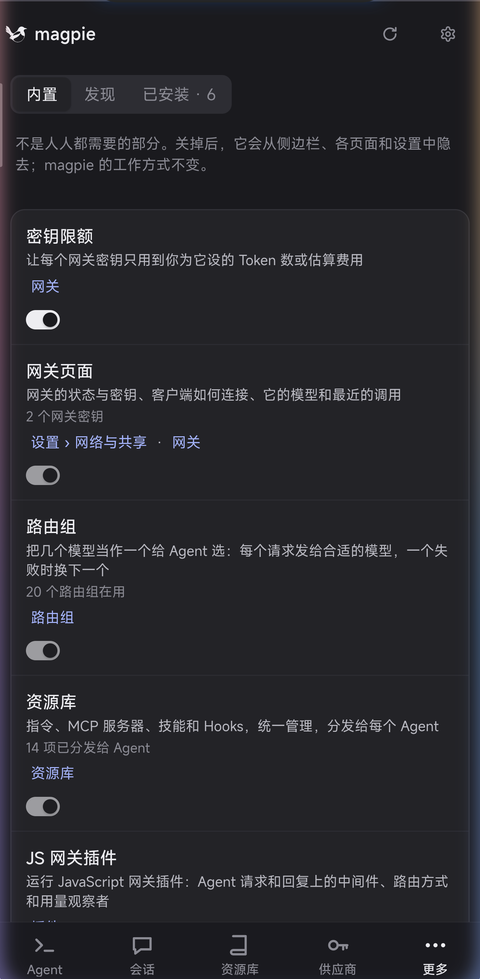
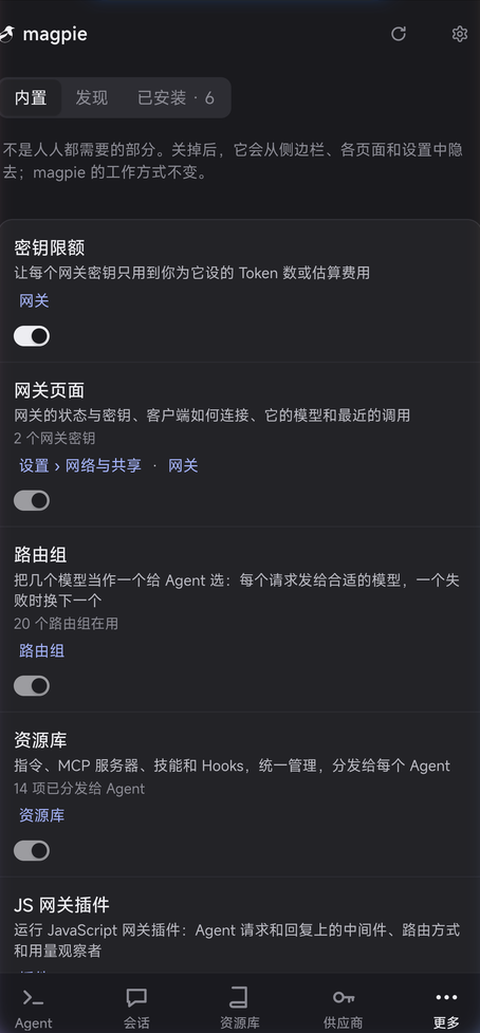
docs: 面板对比改为图在表上、说明不再重复
- 两张表信息重复（图片下面的说明和「能看到什么」那行是同一件事），现在只剩
  一张表；两张截图放到表上方居中并排，配一行图注说明哪张是哪张
- 图放进表格单元格会被压到 170px 左右、两列宽度不等、高度也对不齐；独立成
  段后两张都稳定在 240px，且同一行
- panel-magpie.png 重新裁过：左右各去掉约 13px 的紫/蓝渐变带（截图时叠在
  屏幕边缘的东西），顶部去掉 2px 灰边，再归一到 480 宽

diff --git a/README.md b/README.md
@@ -219,19 +219,16 @@ su -c magpie update         # 下载、校验、重启进新版本
 
 模块里有两个完全不同的页面，地址和用途都不一样：
 
+<p align="center"><img src="docs/panel-magpie.png" width="240" alt="magpie 自带的面板"> <img src="docs/panel.png" width="240" alt="模块自带的 webroot 面板"></p>
+
+（左：magpie 自带的面板，停在「插件 › 内置」页。右：模块自带的 webroot 面板，里面的 API Key 与访问密码默认折叠为「点击「显示」查看」，截图未展开。）
+
 | | magpie 自带的面板 | 模块自带的 webroot 面板 |
 | --- | --- | --- |
 | 地址 | `http://<host>:3430/?k=<data/web.key>` | 由宿主提供，见右栏 |
 | 谁提供 | magpie 自己（`serve --web=…`） | `webroot/index.html`，需要 **KernelSU 的 WebUI** 或 Magisk 的 **WebUI-X** 模块来托管 |
 | 能看到什么 | magpie 的完整应用界面（Agents、会话、资源库、供应商、网关、插件、用量…） | 服务状态与 PID、网关地址与 API Key、面板地址与访问密码、日志尾 |
 | 纯 Magisk 下 | ✅ 可用，地址由 `run/web.url` 给出 | ❌ 没有宿主就打不开；此时 `webroot/status.json` 仍然会写，脚本可以直接读 |
-
-| magpie 自带的面板 | 模块自带的 webroot 面板 |
-| :---: | :---: |
-| <img src="docs/panel-magpie.png" width="240" alt="magpie 自带的面板"> | <img src="docs/panel.png" width="240" alt="模块自带的 webroot 面板"> |
-| magpie 本体提供的完整界面（截图是「插件 › 内置」） | 模块 webroot 提供的状态页，需要 KernelSU WebUI / WebUI-X 托管 |
-
-（左边是 `http://<host>:3430/?k=<data/web.key>` 打开的 magpie 本体界面；右边是模块自带的 webroot 面板，需要在 KernelSU WebUI / WebUI-X 里打开。webroot 面板的 API Key 与访问密码默认折叠为「点击「显示」查看」，未被截入截图。）
 
 ### 命令行
 
